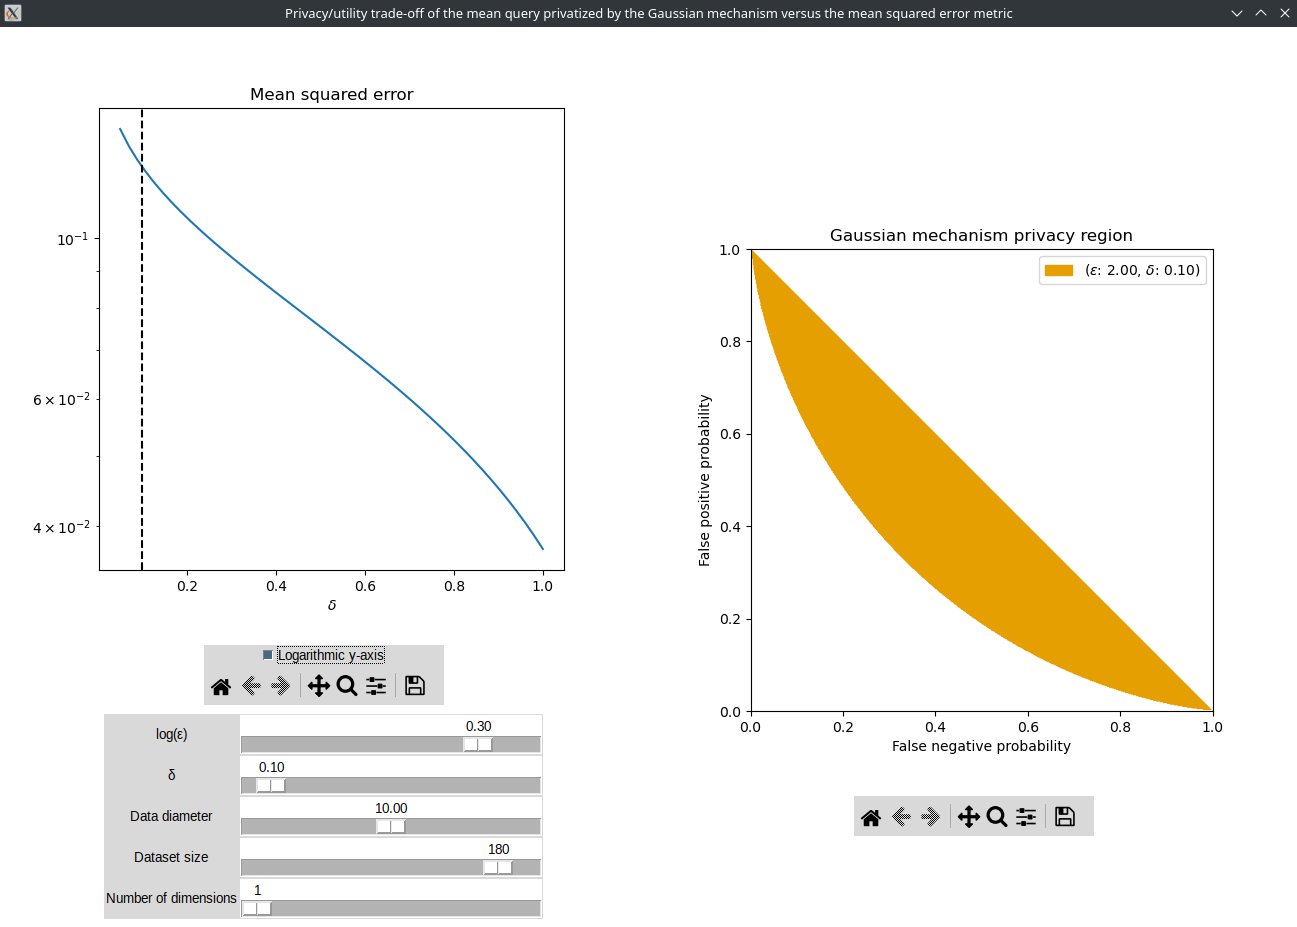
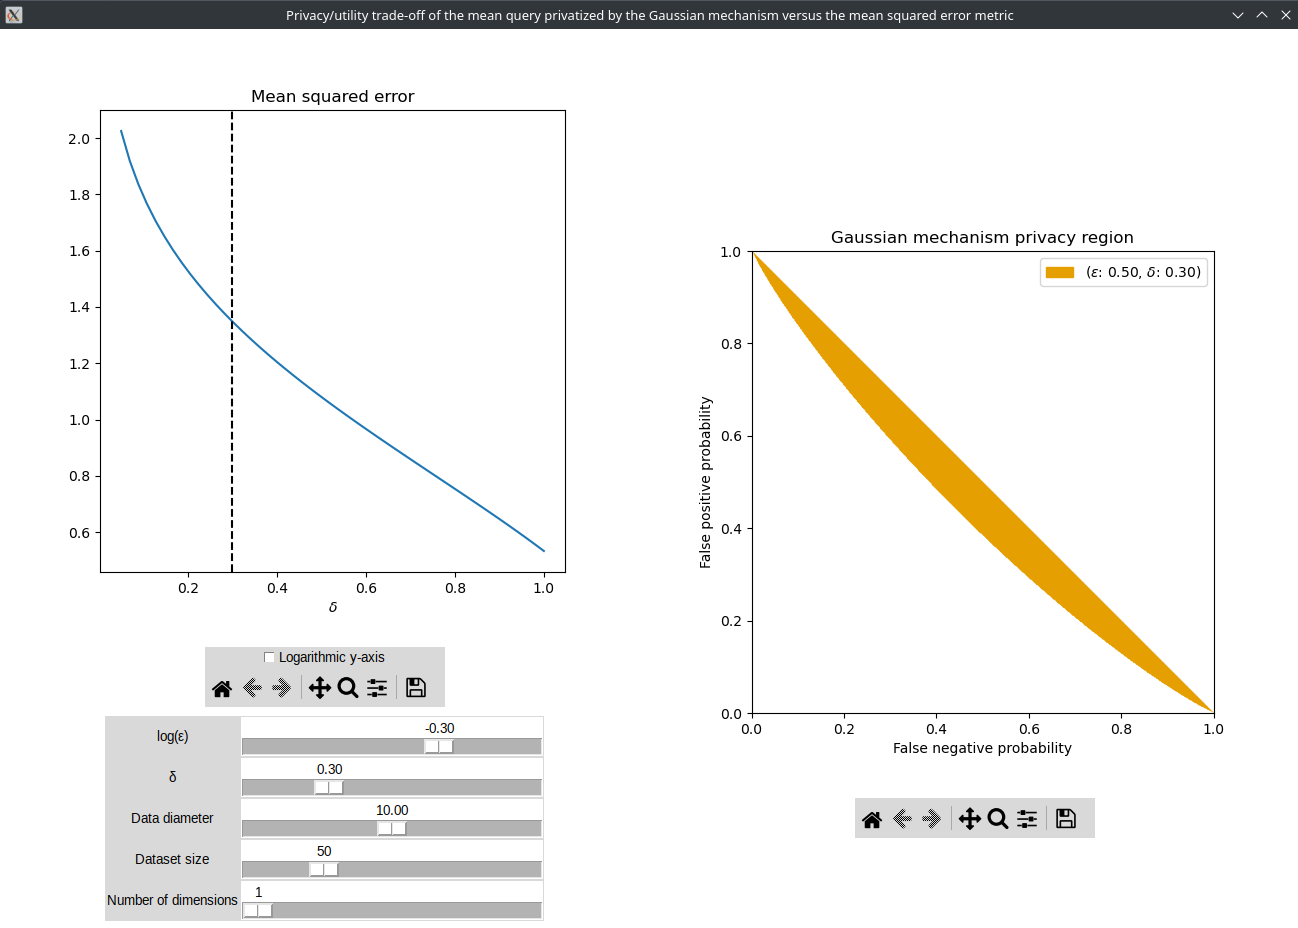
adding pictures

diff --git a/src/model/queries/mean.py b/src/model/queries/mean.py
@@ -36,8 +36,8 @@ class DPMean(DPQuery):
 
     @staticmethod
     def utility_func(*args, **kwargs):
-        return (2 * kwargs["mean_dimensions"] *
-                (GaussianMechanism.noise_scale_func(kwargs["mean_eps"],kwargs["mean_delta"],
+        return (kwargs["mean_dimensions"] *
+                (GaussianMechanism.noise_scale_func(kwargs["mean_eps"], kwargs["mean_delta"],
                  kwargs["mean_dataset_diameter"]/kwargs["mean_dataset_size"])))
 
     def apply(self, x: np.ndarray) -> Any:
@@ -76,7 +76,7 @@ class DPMean(DPQuery):
     @staticmethod
     def params_to_default_vals() -> Dict[str, float]:
         return {
-            "eps": 0.3,
+            "eps": np.log10(0.5),
             "delta": 0.1,
             "dataset_size": 50,
             "dataset_diameter": 10,

diff --git a/src/gui/utility_window.py b/src/gui/utility_window.py
@@ -9,7 +9,6 @@ from matplotlib.backends.backend_tkagg import (FigureCanvasTkAgg,
 
 from definitions import SLIDER_RESOLUTION_INTEGER, SLIDER_RESOLUTION_NON_INTEGER
 from histogram import DPHistogram
-from mean import DPMean
 from query import DPQuery
 from region_figures import MultiRegionFigure
 

diff --git a/src/model/queries/median.py b/src/model/queries/median.py
@@ -117,7 +117,7 @@ class DPMedian(DPQuery):
     @staticmethod
     def params_to_default_vals() -> Dict[str, float]:
         return {
-            "eps": np.log10(0.32),
+            "eps": np.log10(0.5),
             "alphabet_size": 30,
             "t": 100
         }

diff --git a/src/model/queries/randomized_response.py b/src/model/queries/randomized_response.py
@@ -85,7 +85,7 @@ class RandomizedResponse(DPQuery):
     @staticmethod
     def params_to_default_vals() -> Dict[str, float]:
         return {
-            'eps': np.log10(0.6),
+            'eps': np.log10(0.5),
             'alphabet_size': 5
         }
 

diff --git a/src/model/queries/histogram.py b/src/model/queries/histogram.py
@@ -114,7 +114,7 @@ class DPHistogram(DPQuery):
     @staticmethod
     def params_to_default_vals() -> Dict[str, float]:
         return {
-            "eps": np.log10(0.32),
+            "eps": np.log10(0.5),
             "num_bins": 10
         }
 
